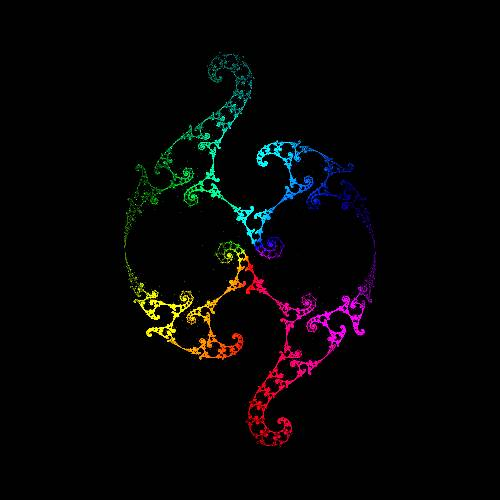
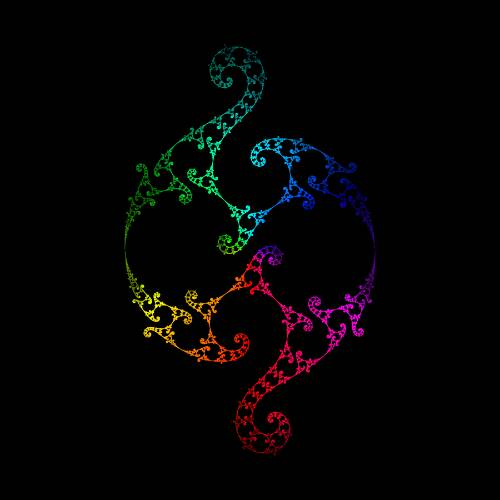
Improved quasi-Fuchsian groups quality

Changed region(s): [[0.24, 0.09, 0.75, 0.93], [0.72, 0.45, 0.75, 0.48]]

diff --git a/applets/quasi-fuchsian-groups/scripts/quasi-fuchsian-groups.min.js b/applets/quasi-fuchsian-groups/scripts/quasi-fuchsian-groups.min.js
@@ -1,1 +1,1 @@
-!function(){"use strict";let e=300,t=300,o=300,r=4,a=document.querySelector("#quasi-fuchsian-groups-plot").getContext("2d",{alpha:!1}),n=[],u=[],l=null,s=[[2,0],[2,0]],c=[[[0,0],[0,0],[0,0],[0,0]],[[0,0],[0,0],[0,0],[0,0]],[],[]],i=[],m=[],d=-1,f=document.querySelector("#coefficient-selector").offsetWidth,p=document.querySelector("#coefficient-selector").offsetHeight,h=17.5,g=!1,q=!0,_=20,y=10,b=0,v=0;document.querySelector("#quasi-fuchsian-groups-plot").setAttribute("width",t),document.querySelector("#quasi-fuchsian-groups-plot").setAttribute("height",o),u=[],n=[];for(let e=0;e<o;e++){u[e]=[],n[e]=[];for(let a=0;a<t;a++)b=e/o*r-r/2,v=r/2-a/t*r,u[e][a]=(Math.atan2(-v,-b)+Math.PI)/(2*Math.PI),n[e][a]=0}function w(){a.fillStyle="rgb(0, 0, 0)",a.fillRect(0,0,t,o);let e=new Complex(s[0]),r=new Complex(s[1]),l=new Complex([0,0]);l=e.mul(r);let i=new Complex([0,0]);i=e.mul(e).add(r.mul(r));let m=new Complex([0,0]);m=l.mul(l).sub(i.mul(4)).arg()>0?l.sub(l.mul(l).sub(i.mul(4)).sqrt()).div(2):l.add(l.mul(l).sub(i.mul(4)).sqrt()).div(2);let d=new Complex([0,0]);d=m.sub(2).mul(r).div(r.mul(m).sub(e.mul(2)).add(m.mul(new Complex([0,2]))));let f=new Complex([0,0]);f=e.div(2),c[0][0][0]=f.re,c[0][0][1]=f.im,c[0][3][0]=f.re,c[0][3][1]=f.im,f=e.mul(m).sub(r.mul(2)).add(new Complex([0,4])).div(m.mul(2).add(4).mul(d)),c[0][1][0]=f.re,c[0][1][1]=f.im,f=e.mul(m).sub(r.mul(2)).sub(new Complex([0,4])).mul(d).div(m.mul(2).sub(4)),c[0][2][0]=f.re,c[0][2][1]=f.im,f=r.sub(new Complex([0,2])).div(2),c[1][0][0]=f.re,c[1][0][1]=f.im,f=r.div(2),c[1][1][0]=f.re,c[1][1][1]=f.im,c[1][2][0]=f.re,c[1][2][1]=f.im,f=r.add(new Complex([0,2])).div(2),c[1][3][0]=f.re,c[1][3][1]=f.im;for(let e=0;e<2;e++){let t=c[e][0][0],o=c[e][0][1],r=c[e][1][0],a=c[e][1][1],n=c[e][2][0],u=c[e][2][1],l=c[e][3][0],s=c[e][3][1];c[e+2]=[[l,s],[-r,-a],[-n,-u],[t,o]]}for(let e=0;e<4;e++)M(0,0,e,-1,-1,1);let p=n.flat().sort(function(e,t){return e-t}),h=p[p.length-1],_=a.getImageData(0,0,t,o),y=_.data;for(let e=0;e<o;e++)for(let o=0;o<t;o++){let r=4*e*t+4*o,a=A(u[e][o],1,Math.pow(n[e][o]/h,.25));y[r]=a[0],y[r+1]=a[1],y[r+2]=a[2],y[r+3]=255}a.putImageData(_,0,0),g?(g=!1,window.requestAnimationFrame(w)):q=!0}function M(e,a,u,l,s,c){if(c!==_)for(let l=3;l<6;l++){b=e,v=a;let s=(u+l)%4;S(s);let i=0,m=0;if(t>=o?(i=Math.floor((r/2-v)/r*o),m=Math.floor((b/(t/o)+r/2)/r*t)):(i=Math.floor((t/o*-v+r/2)/r*o),m=Math.floor((b+r/2)/r*t)),i>=0&&i<o&&m>=0&&m<t){if(n[i][m]===y)continue;c>10&&n[i][m]++}M(b,v,s,i,m,c+1)}}function S(e){let t=c[e][0][0],o=c[e][0][1],r=c[e][1][0],a=c[e][1][1],n=c[e][2][0],u=c[e][2][1],l=c[e][3][0],s=c[e][3][1],i=t*b-o*v+r,m=t*v+o*b+a,d=n*b-u*v+l,f=n*v+u*b+s,p=d*d+f*f;b=(i*d+m*f)/p,v=(m*d-i*f)/p}function x(){for(let e=0;e<2;e++)i.push(document.querySelector(`#coefficient-marker-${e}`));for(let e=0;e<2;e++){m.push([Math.floor(o/2),Math.floor(t/2)]);let r=0,a=0;t>=o?(r=m[e][0]/o*p,a=m[e][1]/(t/o)/t*f):(r=m[e][0]*(t/o)/o*p,a=m[e][1]/t*f),i[e].style.transform=`translate3d(${a-h}px, ${r-h}px, 0)`,i[e].classList.add("no-floating-footer")}window.addEventListener("resize",E),temporary_handlers.resize.push(E),setTimeout(E,1e3),w()}function k(a){d=-1;for(let l=0;l<2;l++)if(a.target.id===`coefficient-marker-${l}`){a.preventDefault(),d=l,e=300,canvas_is_fullscreen?aspect_ratio>=1?(t=e,o=Math.floor(e/aspect_ratio)):(t=Math.floor(e*aspect_ratio),o=e):(t=e,o=e),_=20,y=10,document.querySelector("#quasi-fuchsian-groups-plot").setAttribute("width",t),document.querySelector("#quasi-fuchsian-groups-plot").setAttribute("height",o),u=[],n=[];for(let e=0;e<o;e++){u[e]=[],n[e]=[];for(let a=0;a<t;a++)b=e/o*r-r/2,v=r/2-a/t*r,u[e][a]=(Math.atan2(-v,-b)+Math.PI)/(2*Math.PI),n[e][a]=0}g=!0,q&&(q=!1,window.requestAnimationFrame(w))}}function C(a){if(-1!==d){e=1e3,canvas_is_fullscreen?aspect_ratio>=1?(t=e,o=Math.floor(e/aspect_ratio)):(t=Math.floor(e*aspect_ratio),o=e):(t=e,o=e),_=100,y=50,document.querySelector("#quasi-fuchsian-groups-plot").setAttribute("width",t),document.querySelector("#quasi-fuchsian-groups-plot").setAttribute("height",o),u=[],n=[];for(let e=0;e<o;e++){u[e]=[],n[e]=[];for(let a=0;a<t;a++)b=e/o*r-r/2,v=r/2-a/t*r,u[e][a]=(Math.atan2(-v,-b)+Math.PI)/(2*Math.PI),n[e][a]=0}g=!0,q&&(q=!1,window.requestAnimationFrame(w))}d=-1}function I(e){if(-1===d)return;let r=null,a=null,u=document.querySelector("#coefficient-selector").getBoundingClientRect();"touchmove"===e.type?(r=e.touches[0].clientY-u.top,a=e.touches[0].clientX-u.left):(r=e.clientY-u.top,a=e.clientX-u.left),r<h&&(r=h),r>p-h&&(r=p-h),a<h&&(a=h),a>f-h&&(a=f-h),i[d].style.transform=`translate3d(${a-h}px, ${r-h}px, 0)`,s[d][0]=a/f-.5+2,s[d][1]=1-r/p-.5;for(let e=0;e<o;e++)for(let o=0;o<t;o++)n[e][o]=0;g=!0,q&&(q=!1,window.requestAnimationFrame(w))}function E(){f=document.querySelector("#coefficient-selector").offsetWidth,p=document.querySelector("#coefficient-selector").offsetHeight;for(let e=0;e<2;e++){let t=Math.floor((1-(s[e][1]+.5))*p),o=Math.floor((s[e][0]-2+.5)*f);i[e].style.transform=`translate3d(${o-h}px, ${t-h}px, 0)`}w()}function A(e,t,o){let r,a,n,u,l,s,c,i;switch(s=o*(1-t),c=o*(1-(l=6*e-(u=Math.floor(6*e)))*t),i=o*(1-(1-l)*t),u%6){case 0:r=o,a=i,n=s;break;case 1:r=c,a=o,n=s;break;case 2:r=s,a=o,n=i;break;case 3:r=s,a=c,n=o;break;case 4:r=i,a=s,n=o;break;case 5:r=o,a=s,n=c}return[Math.round(255*r),Math.round(255*a),Math.round(255*n)]}!1===scripts_loaded.complexjs?load_script("/scripts/complex.min.js").then(function(){scripts_loaded.complexjs=!0,x()}).catch(function(e){console.error("Could not load ComplexJS")}):x(),document.querySelector("#download-button").addEventListener("click",function(){e=parseInt(document.querySelector("#image-size-input").value||1e3),_=parseInt(document.querySelector("#max-depth-input").value||100),y=parseInt(document.querySelector("#max-pixel-brightness-input").value||50),canvas_is_fullscreen?aspect_ratio>=1?(t=e,o=Math.floor(e/aspect_ratio)):(t=Math.floor(e*aspect_ratio),o=e):(t=e,o=e);u=[],n=[];for(let e=0;e<o;e++){u[e]=[],n[e]=[];for(let a=0;a<t;a++)b=e/o*r-r/2,v=r/2-a/t*r,u[e][a]=(Math.atan2(-v,-b)+Math.PI)/(2*Math.PI),n[e][a]=0}try{l.terminate()}catch(e){}l=DEBUG?new Worker("/applets/quasi-fuchsian-groups/scripts/worker.js"):new Worker("/applets/quasi-fuchsian-groups/scripts/worker.min.js");temporary_web_workers.push(l),l.onmessage=function(e){n=e.data[0],document.querySelector("#quasi-fuchsian-groups-plot").setAttribute("width",t),document.querySelector("#quasi-fuchsian-groups-plot").setAttribute("height",o);let r=a.getImageData(0,0,t,o),l=r.data;for(let e=0;e<o;e++)for(let o=0;o<t;o++){let r=4*e*t+4*o,a=A(u[e][o],1,n[e][o]);l[r]=a[0],l[r+1]=a[1],l[r+2]=a[2],l[r+3]=255}a.putImageData(r,0,0),function(){let e=document.createElement("a");e.download="a-quasi-fuchsian-group.png",e.href=document.querySelector("#quasi-fuchsian-groups-plot").toDataURL(),e.click(),e.remove()}()},l.postMessage([t,o,_,y,r,c])}),function(){1===url_vars.contrast&&(1===url_vars.theme?document.querySelector("#quasi-fuchsian-groups-plot").style.borderColor="rgb(192, 192, 192)":document.querySelector("#quasi-fuchsian-groups-plot").style.borderColor="rgb(64, 64, 64)");add_style("\n\t\t\t.coefficient-marker.hover\n\t\t\t{\n\t\t\t\tbackground-color: rgb(127, 127, 127);\t\n\t\t\t}\n\t\t\t\n\t\t\t.coefficient-marker:not(:hover):focus\n\t\t\t{\n\t\t\t\tbackground-color: rgb(127, 127, 127);\n\t\t\t\toutline: none;\n\t\t\t}\n\t\t",!0)}(),document.documentElement.addEventListener("touchstart",k,!1),document.documentElement.addEventListener("touchmove",I,!1),document.documentElement.addEventListener("touchend",C,!1),document.documentElement.addEventListener("mousedown",k,!1),document.documentElement.addEventListener("mousemove",I,!1),document.documentElement.addEventListener("mouseup",C,!1),temporary_handlers.touchstart.push(k),temporary_handlers.touchmove.push(I),temporary_handlers.touchend.push(C),temporary_handlers.mousedown.push(k),temporary_handlers.mousemove.push(I),temporary_handlers.mouseup.push(C),applet_canvases_to_resize=[document.querySelector("#quasi-fuchsian-groups-plot"),document.querySelector("#coefficient-selector")],applet_canvas_resize_callback=function(){e=300,canvas_is_fullscreen?aspect_ratio>=1?(t=e,o=Math.floor(e/aspect_ratio)):(t=Math.floor(e*aspect_ratio),o=e):(t=e,o=e);for(let e=0;e<o;e++){u[e]=[],n[e]=[];for(let a=0;a<t;a++)b=e/o*r-r/2,v=r/2-a/t*r,u[e][a]=(Math.atan2(-v,-b)+Math.PI)/(2*Math.PI),n[e][a]=0}document.querySelector("#quasi-fuchsian-groups-plot").setAttribute("width",t),document.querySelector("#quasi-fuchsian-groups-plot").setAttribute("height",o),E(),w()},applet_canvas_true_fullscreen=!0,set_up_canvas_resizer()}();
+!function(){"use strict";let e=300,t=300,o=300,r=4,a=document.querySelector("#quasi-fuchsian-groups-plot").getContext("2d",{alpha:!1}),n=[],u=[],l=null,s=[[2,0],[2,0]],c=[[[0,0],[0,0],[0,0],[0,0]],[[0,0],[0,0],[0,0],[0,0]],[],[]],i=[],m=[],d=-1,f=document.querySelector("#coefficient-selector").offsetWidth,p=document.querySelector("#coefficient-selector").offsetHeight,h=17.5,g=!1,q=!0,_=20,y=10,b=0,v=0;document.querySelector("#quasi-fuchsian-groups-plot").setAttribute("width",t),document.querySelector("#quasi-fuchsian-groups-plot").setAttribute("height",o),u=[],n=[];for(let e=0;e<o;e++){u[e]=[],n[e]=[];for(let a=0;a<t;a++)b=e/o*r-r/2,v=r/2-a/t*r,u[e][a]=(Math.atan2(-v,-b)+Math.PI)/(2*Math.PI),n[e][a]=0}function w(){a.fillStyle="rgb(0, 0, 0)",a.fillRect(0,0,t,o);let r=new Complex(s[0]),l=new Complex(s[1]),i=new Complex([0,0]);i=r.mul(l);let m=new Complex([0,0]);m=r.mul(r).add(l.mul(l));let d=new Complex([0,0]);d=i.mul(i).sub(m.mul(4)).arg()>0?i.sub(i.mul(i).sub(m.mul(4)).sqrt()).div(2):i.add(i.mul(i).sub(m.mul(4)).sqrt()).div(2);let f=new Complex([0,0]);f=d.sub(2).mul(l).div(l.mul(d).sub(r.mul(2)).add(d.mul(new Complex([0,2]))));let p=new Complex([0,0]);p=r.div(2),c[0][0][0]=p.re,c[0][0][1]=p.im,c[0][3][0]=p.re,c[0][3][1]=p.im,p=r.mul(d).sub(l.mul(2)).add(new Complex([0,4])).div(d.mul(2).add(4).mul(f)),c[0][1][0]=p.re,c[0][1][1]=p.im,p=r.mul(d).sub(l.mul(2)).sub(new Complex([0,4])).mul(f).div(d.mul(2).sub(4)),c[0][2][0]=p.re,c[0][2][1]=p.im,p=l.sub(new Complex([0,2])).div(2),c[1][0][0]=p.re,c[1][0][1]=p.im,p=l.div(2),c[1][1][0]=p.re,c[1][1][1]=p.im,c[1][2][0]=p.re,c[1][2][1]=p.im,p=l.add(new Complex([0,2])).div(2),c[1][3][0]=p.re,c[1][3][1]=p.im;for(let e=0;e<2;e++){let t=c[e][0][0],o=c[e][0][1],r=c[e][1][0],a=c[e][1][1],n=c[e][2][0],u=c[e][2][1],l=c[e][3][0],s=c[e][3][1];c[e+2]=[[l,s],[-r,-a],[-n,-u],[t,o]]}for(let e=0;e<4;e++)M(0,0,e,-1,-1,1);let h=n.flat().sort(function(e,t){return e-t}),_=h[h.length-1];if(300!==e)for(let e=1;e<o-1;e++)for(let o=1;o<t-1;o++)0!==n[e][o]&&0===n[e-1][o]&&0===n[e-1][o+1]&&0===n[e][o+1]&&0===n[e+1][o+1]&&0===n[e+1][o]&&0===n[e+1][o-1]&&0===n[e][o-1]&&0===n[e-1][o-1]&&(n[e][o]=0);let y=a.getImageData(0,0,t,o),b=y.data;for(let e=0;e<o;e++)for(let o=0;o<t;o++){let r=4*e*t+4*o,a=A(u[e][o],1,Math.pow(n[e][o]/_,.25));b[r]=a[0],b[r+1]=a[1],b[r+2]=a[2],b[r+3]=255}a.putImageData(y,0,0),g?(g=!1,window.requestAnimationFrame(w)):q=!0}function M(a,u,l,s,c,i){if(i!==_)for(let s=3;s<6;s++){b=a,v=u;let c=(l+s)%4;S(c);let m=0,d=0;if(t>=o?(m=Math.floor((r/2-v)/r*o),d=Math.floor((b/(t/o)+r/2)/r*t)):(m=Math.floor((t/o*-v+r/2)/r*o),d=Math.floor((b+r/2)/r*t)),m>=0&&m<o&&d>=0&&d<t){if(n[m][d]===y)continue;(i>10||300!==e)&&n[m][d]++}M(b,v,c,m,d,i+1)}}function S(e){let t=c[e][0][0],o=c[e][0][1],r=c[e][1][0],a=c[e][1][1],n=c[e][2][0],u=c[e][2][1],l=c[e][3][0],s=c[e][3][1],i=t*b-o*v+r,m=t*v+o*b+a,d=n*b-u*v+l,f=n*v+u*b+s,p=d*d+f*f;b=(i*d+m*f)/p,v=(m*d-i*f)/p}function x(){for(let e=0;e<2;e++)i.push(document.querySelector(`#coefficient-marker-${e}`));for(let e=0;e<2;e++){m.push([Math.floor(o/2),Math.floor(t/2)]);let r=0,a=0;t>=o?(r=m[e][0]/o*p,a=m[e][1]/(t/o)/t*f):(r=m[e][0]*(t/o)/o*p,a=m[e][1]/t*f),i[e].style.transform=`translate3d(${a-h}px, ${r-h}px, 0)`,i[e].classList.add("no-floating-footer")}window.addEventListener("resize",E),temporary_handlers.resize.push(E),setTimeout(E,1e3),w()}function k(a){d=-1;for(let l=0;l<2;l++)if(a.target.id===`coefficient-marker-${l}`){a.preventDefault(),d=l,e=300,canvas_is_fullscreen?aspect_ratio>=1?(t=e,o=Math.floor(e/aspect_ratio)):(t=Math.floor(e*aspect_ratio),o=e):(t=e,o=e),_=20,y=10,document.querySelector("#quasi-fuchsian-groups-plot").setAttribute("width",t),document.querySelector("#quasi-fuchsian-groups-plot").setAttribute("height",o),u=[],n=[];for(let e=0;e<o;e++){u[e]=[],n[e]=[];for(let a=0;a<t;a++)b=e/o*r-r/2,v=r/2-a/t*r,u[e][a]=(Math.atan2(-v,-b)+Math.PI)/(2*Math.PI),n[e][a]=0}g=!0,q&&(q=!1,window.requestAnimationFrame(w))}}function C(a){if(-1!==d){e=1e3,canvas_is_fullscreen?aspect_ratio>=1?(t=e,o=Math.floor(e/aspect_ratio)):(t=Math.floor(e*aspect_ratio),o=e):(t=e,o=e),_=100,y=50,document.querySelector("#quasi-fuchsian-groups-plot").setAttribute("width",t),document.querySelector("#quasi-fuchsian-groups-plot").setAttribute("height",o),u=[],n=[];for(let e=0;e<o;e++){u[e]=[],n[e]=[];for(let a=0;a<t;a++)b=e/o*r-r/2,v=r/2-a/t*r,u[e][a]=(Math.atan2(-v,-b)+Math.PI)/(2*Math.PI),n[e][a]=0}g=!0,q&&(q=!1,window.requestAnimationFrame(w))}d=-1}function I(e){if(-1===d)return;let r=null,a=null,u=document.querySelector("#coefficient-selector").getBoundingClientRect();"touchmove"===e.type?(r=e.touches[0].clientY-u.top,a=e.touches[0].clientX-u.left):(r=e.clientY-u.top,a=e.clientX-u.left),r<h&&(r=h),r>p-h&&(r=p-h),a<h&&(a=h),a>f-h&&(a=f-h),i[d].style.transform=`translate3d(${a-h}px, ${r-h}px, 0)`,s[d][0]=a/f-.5+2,s[d][1]=1-r/p-.5;for(let e=0;e<o;e++)for(let o=0;o<t;o++)n[e][o]=0;g=!0,q&&(q=!1,window.requestAnimationFrame(w))}function E(){f=document.querySelector("#coefficient-selector").offsetWidth,p=document.querySelector("#coefficient-selector").offsetHeight;for(let e=0;e<2;e++){let t=Math.floor((1-(s[e][1]+.5))*p),o=Math.floor((s[e][0]-2+.5)*f);i[e].style.transform=`translate3d(${o-h}px, ${t-h}px, 0)`}w()}function A(e,t,o){let r,a,n,u,l,s,c,i;switch(s=o*(1-t),c=o*(1-(l=6*e-(u=Math.floor(6*e)))*t),i=o*(1-(1-l)*t),u%6){case 0:r=o,a=i,n=s;break;case 1:r=c,a=o,n=s;break;case 2:r=s,a=o,n=i;break;case 3:r=s,a=c,n=o;break;case 4:r=i,a=s,n=o;break;case 5:r=o,a=s,n=c}return[Math.round(255*r),Math.round(255*a),Math.round(255*n)]}!1===scripts_loaded.complexjs?load_script("/scripts/complex.min.js").then(function(){scripts_loaded.complexjs=!0,x()}).catch(function(e){console.error("Could not load ComplexJS")}):x(),document.querySelector("#download-button").addEventListener("click",function(){e=parseInt(document.querySelector("#image-size-input").value||1e3),_=parseInt(document.querySelector("#max-depth-input").value||100),y=parseInt(document.querySelector("#max-pixel-brightness-input").value||50),canvas_is_fullscreen?aspect_ratio>=1?(t=e,o=Math.floor(e/aspect_ratio)):(t=Math.floor(e*aspect_ratio),o=e):(t=e,o=e);u=[],n=[];for(let e=0;e<o;e++){u[e]=[],n[e]=[];for(let a=0;a<t;a++)b=e/o*r-r/2,v=r/2-a/t*r,u[e][a]=(Math.atan2(-v,-b)+Math.PI)/(2*Math.PI),n[e][a]=0}try{l.terminate()}catch(e){}l=DEBUG?new Worker("/applets/quasi-fuchsian-groups/scripts/worker.js"):new Worker("/applets/quasi-fuchsian-groups/scripts/worker.min.js");temporary_web_workers.push(l),l.onmessage=function(e){n=e.data[0],document.querySelector("#quasi-fuchsian-groups-plot").setAttribute("width",t),document.querySelector("#quasi-fuchsian-groups-plot").setAttribute("height",o);let r=a.getImageData(0,0,t,o),l=r.data;for(let e=0;e<o;e++)for(let o=0;o<t;o++){let r=4*e*t+4*o,a=A(u[e][o],1,n[e][o]);l[r]=a[0],l[r+1]=a[1],l[r+2]=a[2],l[r+3]=255}a.putImageData(r,0,0),function(){let e=document.createElement("a");e.download="a-quasi-fuchsian-group.png",e.href=document.querySelector("#quasi-fuchsian-groups-plot").toDataURL(),e.click(),e.remove()}()},l.postMessage([t,o,_,y,r,c])}),function(){1===url_vars.contrast&&(1===url_vars.theme?document.querySelector("#quasi-fuchsian-groups-plot").style.borderColor="rgb(192, 192, 192)":document.querySelector("#quasi-fuchsian-groups-plot").style.borderColor="rgb(64, 64, 64)");add_style("\n\t\t\t.coefficient-marker.hover\n\t\t\t{\n\t\t\t\tbackground-color: rgb(127, 127, 127);\t\n\t\t\t}\n\t\t\t\n\t\t\t.coefficient-marker:not(:hover):focus\n\t\t\t{\n\t\t\t\tbackground-color: rgb(127, 127, 127);\n\t\t\t\toutline: none;\n\t\t\t}\n\t\t",!0)}(),document.documentElement.addEventListener("touchstart",k,!1),document.documentElement.addEventListener("touchmove",I,!1),document.documentElement.addEventListener("touchend",C,!1),document.documentElement.addEventListener("mousedown",k,!1),document.documentElement.addEventListener("mousemove",I,!1),document.documentElement.addEventListener("mouseup",C,!1),temporary_handlers.touchstart.push(k),temporary_handlers.touchmove.push(I),temporary_handlers.touchend.push(C),temporary_handlers.mousedown.push(k),temporary_handlers.mousemove.push(I),temporary_handlers.mouseup.push(C),applet_canvases_to_resize=[document.querySelector("#quasi-fuchsian-groups-plot"),document.querySelector("#coefficient-selector")],applet_canvas_resize_callback=function(){e=300,canvas_is_fullscreen?aspect_ratio>=1?(t=e,o=Math.floor(e/aspect_ratio)):(t=Math.floor(e*aspect_ratio),o=e):(t=e,o=e);for(let e=0;e<o;e++){u[e]=[],n[e]=[];for(let a=0;a<t;a++)b=e/o*r-r/2,v=r/2-a/t*r,u[e][a]=(Math.atan2(-v,-b)+Math.PI)/(2*Math.PI),n[e][a]=0}document.querySelector("#quasi-fuchsian-groups-plot").setAttribute("width",t),document.querySelector("#quasi-fuchsian-groups-plot").setAttribute("height",o),E(),w()},applet_canvas_true_fullscreen=!0,set_up_canvas_resizer()}();

diff --git a/applets/quasi-fuchsian-groups/scripts/worker.min.js b/applets/quasi-fuchsian-groups/scripts/worker.min.js
@@ -1,1 +1,1 @@
-"use strict";onmessage=async function(t){canvas_width=t.data[0],canvas_height=t.data[1],max_depth=t.data[2],max_pixel_brightness=t.data[3],box_size=t.data[4],coefficients=t.data[5],await draw_quasi_fuchsian_group()};let canvas_width=null,canvas_height=null,max_depth=null,max_pixel_brightness=null,box_size=null,coefficients=[],brightness=[],x=0,y=0;function draw_quasi_fuchsian_group(){return new Promise(async function(t,s){brightness=[];for(let t=0;t<canvas_height;t++){brightness[t]=[];for(let s=0;s<canvas_width;s++)brightness[t][s]=0}for(let t=0;t<4;t++)search_step(0,0,t,-1,-1,1);let a=brightness.flat().sort(function(t,s){return t-s}),e=a[Math.round(.999*a.length)-1];for(let t=0;t<canvas_height;t++)for(let s=0;s<canvas_width;s++)brightness[t][s]=Math.min(Math.sqrt(brightness[t][s]/e),1);postMessage([brightness]),t()})}function search_step(t,s,a,e,i,n){if(n!==max_depth)for(let e=3;e<6;e++){x=t,y=s;let i=(a+e)%4;apply_transformation(i);let h=0,c=0;if(canvas_width>=canvas_height?(h=Math.floor((box_size/2-y)/box_size*canvas_height),c=Math.floor((x/(canvas_width/canvas_height)+box_size/2)/box_size*canvas_width)):(h=Math.floor((canvas_width/canvas_height*-y+box_size/2)/box_size*canvas_height),c=Math.floor((x+box_size/2)/box_size*canvas_width)),h>=0&&h<canvas_height&&c>=0&&c<canvas_width){if(brightness[h][c]===max_pixel_brightness)continue;brightness[h][c]++}search_step(x,y,i,h,c,n+1)}}function apply_transformation(t){let s=coefficients[t][0][0],a=coefficients[t][0][1],e=coefficients[t][1][0],i=coefficients[t][1][1],n=coefficients[t][2][0],h=coefficients[t][2][1],c=coefficients[t][3][0],o=coefficients[t][3][1],_=s*x-a*y+e,f=s*y+a*x+i,r=n*x-h*y+c,l=n*y+h*x+o,g=r*r+l*l;x=(_*r+f*l)/g,y=(f*r-_*l)/g}
+"use strict";onmessage=async function(s){canvas_width=s.data[0],canvas_height=s.data[1],max_depth=s.data[2],max_pixel_brightness=s.data[3],box_size=s.data[4],coefficients=s.data[5],await draw_quasi_fuchsian_group()};let canvas_width=null,canvas_height=null,max_depth=null,max_pixel_brightness=null,box_size=null,coefficients=[],brightness=[],x=0,y=0;function draw_quasi_fuchsian_group(){return new Promise(async function(s,t){brightness=[];for(let s=0;s<canvas_height;s++){brightness[s]=[];for(let t=0;t<canvas_width;t++)brightness[s][t]=0}for(let s=0;s<4;s++)search_step(0,0,s,-1,-1,1);let e=brightness.flat().sort(function(s,t){return s-t}),i=e[Math.round(.999*e.length)-1];for(let s=0;s<canvas_height;s++)for(let t=0;t<canvas_width;t++)brightness[s][t]=Math.min(Math.sqrt(brightness[s][t]/i),1);for(let s=1;s<canvas_height-1;s++)for(let t=1;t<canvas_width-1;t++)0!==brightness[s][t]&&0===brightness[s-1][t]&&0===brightness[s-1][t+1]&&0===brightness[s][t+1]&&0===brightness[s+1][t+1]&&0===brightness[s+1][t]&&0===brightness[s+1][t-1]&&0===brightness[s][t-1]&&0===brightness[s-1][t-1]&&(brightness[s][t]=0);postMessage([brightness]),s()})}function search_step(s,t,e,i,a,n){if(n!==max_depth)for(let i=3;i<6;i++){x=s,y=t;let a=(e+i)%4;apply_transformation(a);let h=0,c=0;if(canvas_width>=canvas_height?(h=Math.floor((box_size/2-y)/box_size*canvas_height),c=Math.floor((x/(canvas_width/canvas_height)+box_size/2)/box_size*canvas_width)):(h=Math.floor((canvas_width/canvas_height*-y+box_size/2)/box_size*canvas_height),c=Math.floor((x+box_size/2)/box_size*canvas_width)),h>=0&&h<canvas_height&&c>=0&&c<canvas_width){if(brightness[h][c]===max_pixel_brightness)continue;brightness[h][c]++}search_step(x,y,a,h,c,n+1)}}function apply_transformation(s){let t=coefficients[s][0][0],e=coefficients[s][0][1],i=coefficients[s][1][0],a=coefficients[s][1][1],n=coefficients[s][2][0],h=coefficients[s][2][1],c=coefficients[s][3][0],r=coefficients[s][3][1],o=t*x-e*y+i,_=t*y+e*x+a,f=n*x-h*y+c,g=n*y+h*x+r,l=f*f+g*g;x=(o*f+_*g)/l,y=(_*f-o*g)/l}

diff --git a/applets/quasi-fuchsian-groups/scripts/quasi-fuchsian-groups.js b/applets/quasi-fuchsian-groups/scripts/quasi-fuchsian-groups.js
@@ -275,6 +275,23 @@
 		
 		
 		
+		//Run a pass to remove any isolated pixels.
+		if (canvas_size !== 300)
+		{
+			for (let i = 1; i < canvas_height - 1; i++)
+			{
+				for (let j = 1; j < canvas_width - 1; j++)
+				{
+					if (brightness[i][j] !== 0 && brightness[i - 1][j] === 0 && brightness[i - 1][j + 1] === 0 && brightness[i][j + 1] === 0 && brightness[i + 1][j + 1] === 0 && brightness[i + 1][j] === 0 && brightness[i + 1][j - 1] === 0 && brightness[i][j - 1] === 0 && brightness[i - 1][j - 1] === 0)
+					{
+						brightness[i][j] = 0;
+					}
+				}
+			}
+		}
+		
+		
+		
 		let img_data = ctx.getImageData(0, 0, canvas_width, canvas_height);
 		let data = img_data.data;
 		
@@ -412,7 +429,7 @@
 					continue;
 				}
 				
-				if (depth > 10)
+				if (depth > 10 || canvas_size !== 300)
 				{
 					brightness[row][col]++;
 				}

diff --git a/applets/quasi-fuchsian-groups/scripts/worker.js b/applets/quasi-fuchsian-groups/scripts/worker.js
@@ -69,6 +69,22 @@ function draw_quasi_fuchsian_group()
 			}
 		}
 		
+		
+		
+		//Run a pass to remove any isolated pixels.
+		for (let i = 1; i < canvas_height - 1; i++)
+		{
+			for (let j = 1; j < canvas_width - 1; j++)
+			{
+				if (brightness[i][j] !== 0 && brightness[i - 1][j] === 0 && brightness[i - 1][j + 1] === 0 && brightness[i][j + 1] === 0 && brightness[i + 1][j + 1] === 0 && brightness[i + 1][j] === 0 && brightness[i + 1][j - 1] === 0 && brightness[i][j - 1] === 0 && brightness[i - 1][j - 1] === 0)
+				{
+					brightness[i][j] = 0;
+				}
+			}
+		}
+		
+		
+		
 		postMessage([brightness]);
 		
 		
